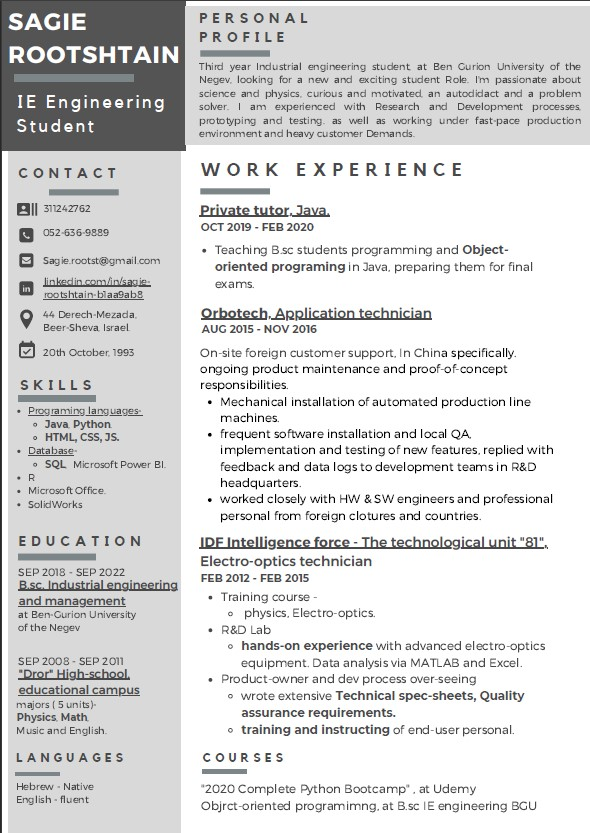
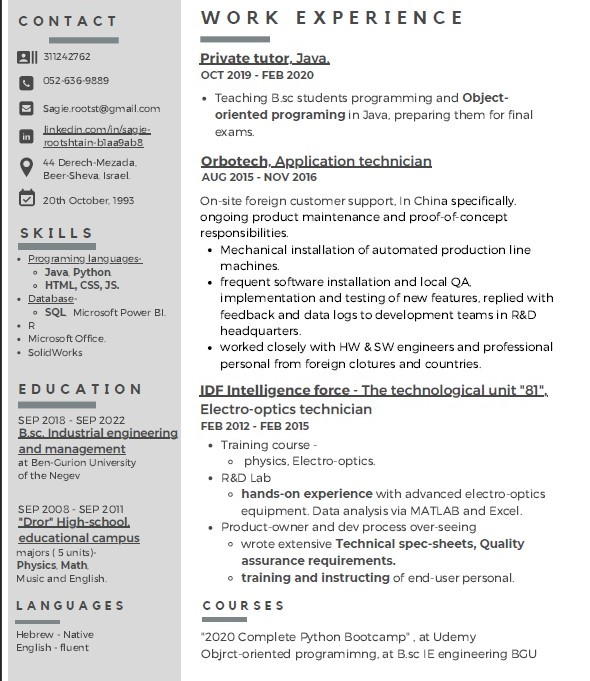
assignment9

diff --git a/static/JS/cvfetch.js b/static/JS/cvfetch.js
@@ -1,26 +1,30 @@
-function CreatUsersList(users){
+function CreatUsersList(users, first_name='', last_name='', email=''){
     console.log(users);
     const user = users[0];
     console.log(user);
     const curr_main = document.querySelector("main");
         for(let user of users){
-            if (user.first_name= || user.last_name= || user.email=)
-                const section = document.createElement('section');
+            let section;
+             // if (user.first_name === first_name || user.last_name === last_name || user.email === email || (first_name === '' & last_name === '' & email === ''))
+                section = document.createElement('section');
                 section.innerHTML=`
                     <img src="${user.avatar}" alt="profile picture"/>
                 <div>
                     <span>${user.first_name} ${user.last_name}</span>
                     <br>
-                        <a href="mailto:${user.email}">Email</a>
+                        <a href="mailto:${user.email}">${user.email}</a>
                 </div>`
                 curr_main.appendChild(section);
 
         }
 
 }
+  let first_name = document.getElementsByName("username");
+  let last_name = document.getElementsByName("lastname");
+  let email = document.getElementsByName("email");
 fetch('https://reqres.in/api/users?page=2').then(
     response=>response.json()
 ).then(
-    responseOBJECT=>CreatUsersList(responseOBJECT.data)
+    responseOBJECT=>CreatUsersList(responseOBJECT.data, first_name,last_name,email)
 )
     .catch(err => console.log(err));

diff --git a/templates/assignment9.html b/templates/assignment9.html
@@ -1,11 +1,35 @@
 {% extends 'cvfetch.html' %}
-
 {% block search %}
-  <h2>Search</h2>
-  <form method="GET" action="assignment9.html">
-    <input name="firstName" type="text" placeholder="first name">
-    <input name="lastName" type="text" placeholder="last name">
-    <input name="email" type="email" placeholder="email">
-    <input name="submit" type="submit">
-  </form>
+  {% if username %}
+    <h1>Welcome, {{username}} {{lastname}}!</h1>
+      <h2>Search</h2>
+      <form method="POST" action="/assignment9">
+        <input name="first_name" type="text" placeholder="first name">
+        <input name="last_name" type="text" placeholder="last name">
+        <input name="email" type="email" placeholder="email">
+        <input name="submit"  type="submit">
+      </form>
+      <form method="GET" action="/assignment9">
+        <input name="LogOut"  type="submit" value="Log Out">
+      </form>
+
+
+  {% else %}
+    <h1>Welcome, stranger!</h1>
+    <h2>please enter your name</h2>
+      <form method="GET" action="/assignment9">
+        <input name="username" type="text" placeholder="First Name">
+        <input name="lastname" type="text" placeholder="Last Name">
+        <input type="submit">
+      </form>
+  {% endif %}
 {% endblock %}
+
+{% block script %}
+
+{% endblock %}
+
+
+
+
+

diff --git a/static/CSS/CV.css b/static/CSS/CV.css
@@ -9,7 +9,7 @@ html{
     background-attachment: fixed;
     scroll-behavior: smooth;
     background-image: url("../IMAGES/light-bg.jpg");
-    height: 100%;
+    height: 1000px;
     background-repeat: no-repeat;
     background-size: cover;
     --bg: #ebebfc;
@@ -53,7 +53,7 @@ html[data-theme='dark']{
 .grid-main {
     position: relative;
     width: 90%;
-    top: 0;
+    top: 80px;
     bottom: 100px;
     border: none ;
     border-radius: 10px;
@@ -74,7 +74,7 @@ html[data-theme='dark']{
     top: 600px;
     flow: right;
     width: 90%;
-    height: 100%;
+    height: 450px;
     border: none ;
     border-radius: 10px;
     margin: 5px;

diff --git a/app.py b/app.py
@@ -1,4 +1,4 @@
-from flask import Flask, render_template, request
+from flask import Flask, render_template, request, session
 
 app = Flask(__name__)
 
@@ -26,16 +26,34 @@ def assignment8():
 
 @app.route('/assignment9', methods=['Get', 'Post'])
 def assignment9():
-    curr_user = {'first': "Sagie", 'last': "Rootshtain"}
-    if 'username' in request.args:
-        first_name = request.args['username']
-        last_name = request.args['lastname']
+    curr_user = {'first': '', 'last': ''}
+    current_method = request.method
+    if 'username' in session:
+        username, lastname = session['username'], session['lastname']
     else:
-        first_name, last_name = '', ''
+        if current_method == 'GET':
+            if 'first_name' in request.args:
+                first_name = request.args['first_name']
+                last_name = request.args['last_name']
+            else:
+                first_name, last_name = '', ''
+        elif current_method == 'POST':
+            if 'first_name' in request.args:
+                first_name = request.form['first_name']
+                last_name = request.form['last_name']
+            else:
+                first_name, last_name = '', ''
+        else:
+            first_name, last_name = '', ''
+    if 'LogOut' in request.args:
+        username, lastname = '', ''
     return render_template('assignment9.html',
                            curr_user=curr_user,
+                           # username=username,
+                           # lastname=lastname,
                            first_name=first_name,
-                           last_name=last_name)
+                           last_name=last_name,
+                           current_method=current_method)
 
 
 @app.route('/friends')
